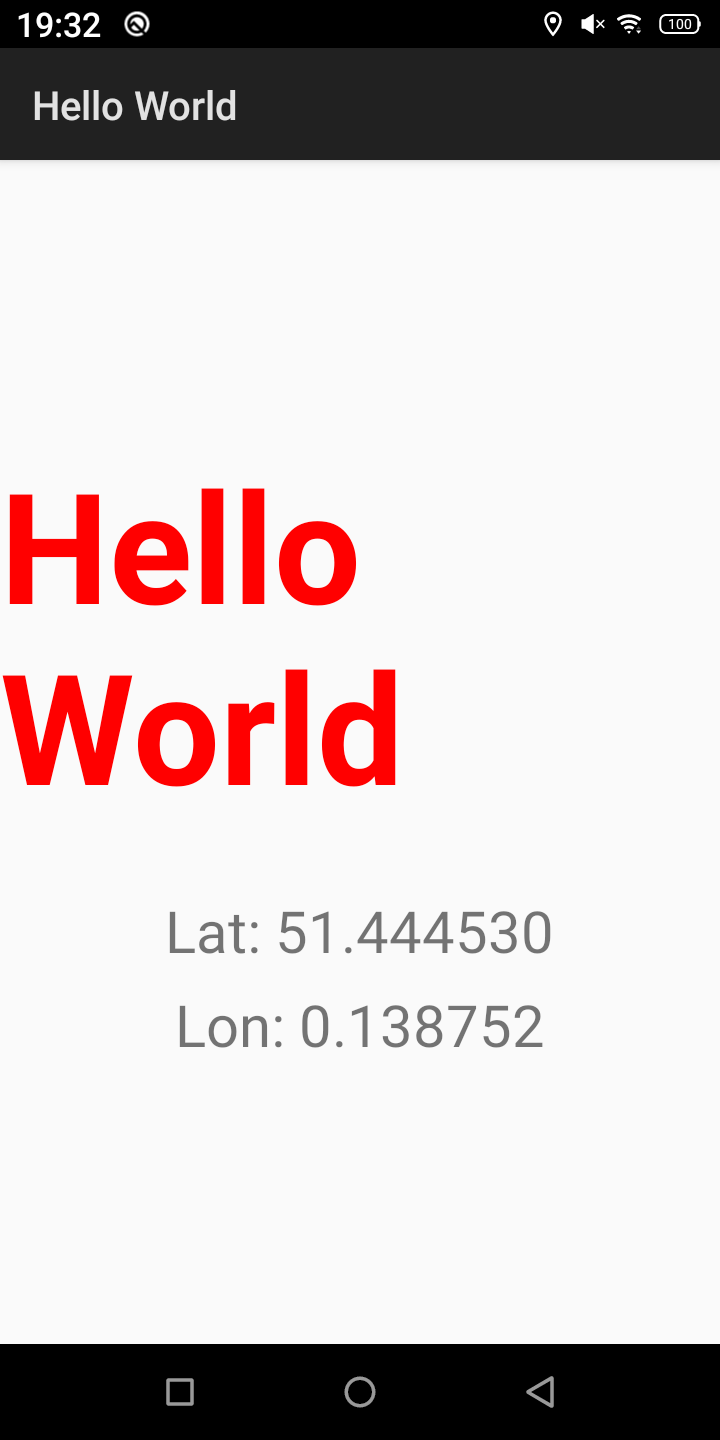
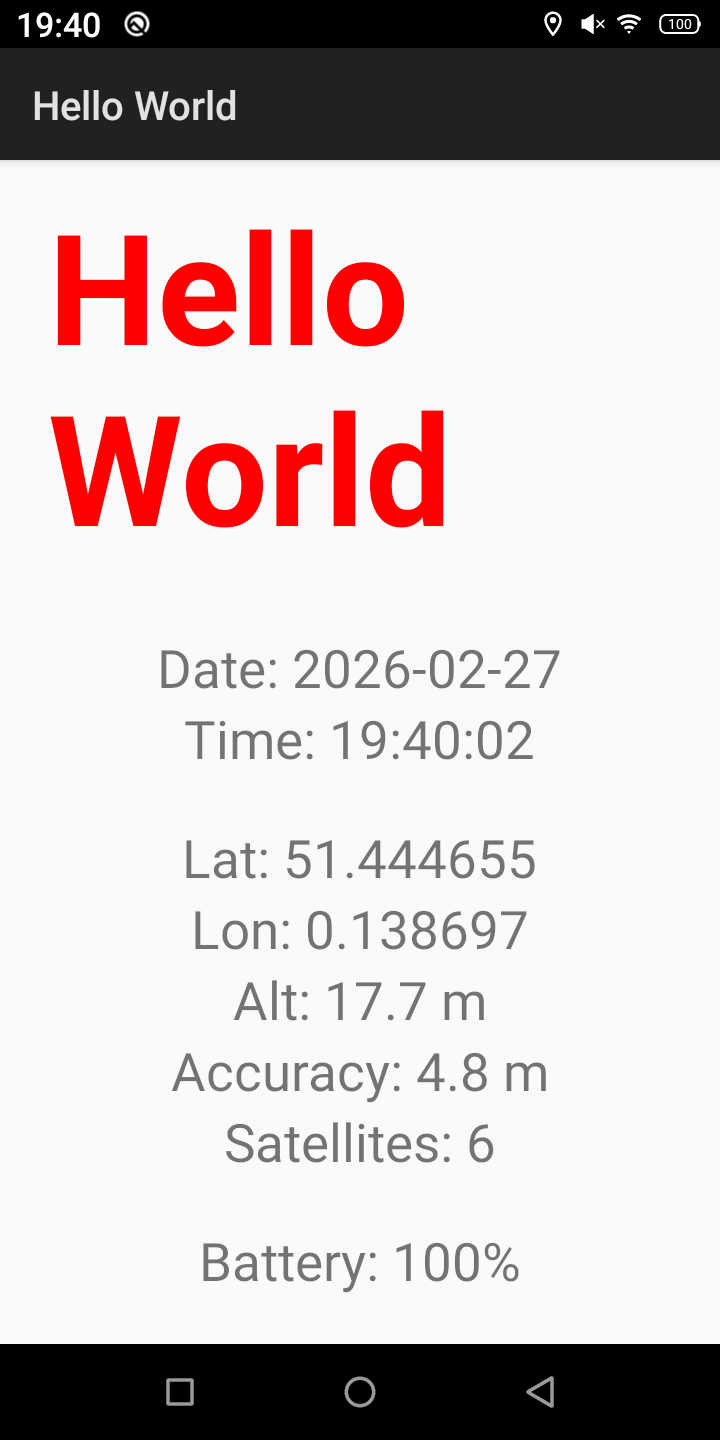
Add altitude, accuracy, satellites, battery, date and time display
Location updates every 60 seconds. Clock ticks every second.
Satellite count uses GnssStatus callback. Battery level via broadcast receiver.

diff --git a/HelloWorld/src/com/example/helloworld/MainActivity.java b/HelloWorld/src/com/example/helloworld/MainActivity.java
@@ -2,28 +2,85 @@ package com.example.helloworld;
 
 import android.Manifest;
 import android.app.Activity;
+import android.content.BroadcastReceiver;
+import android.content.Context;
+import android.content.Intent;
+import android.content.IntentFilter;
 import android.content.pm.PackageManager;
+import android.location.GnssStatus;
 import android.location.Location;
 import android.location.LocationListener;
 import android.location.LocationManager;
+import android.os.BatteryManager;
+import android.os.Build;
 import android.os.Bundle;
+import android.os.Handler;
 import android.widget.TextView;
+
+import java.text.SimpleDateFormat;
+import java.util.Date;
+import java.util.Locale;
 
 public class MainActivity extends Activity implements LocationListener {
 
     private static final int LOCATION_PERMISSION_REQUEST = 1;
-    private TextView tvLat, tvLon;
+
+    private TextView tvLat, tvLon, tvAlt, tvAccuracy, tvSatellites, tvBattery, tvDate, tvTime;
     private LocationManager locationManager;
+    private GnssStatus.Callback gnssCallback;
+    private int satelliteCount = 0;
+
+    private final Handler clockHandler = new Handler();
+    private final SimpleDateFormat dateFmt = new SimpleDateFormat("yyyy-MM-dd", Locale.getDefault());
+    private final SimpleDateFormat timeFmt = new SimpleDateFormat("HH:mm:ss", Locale.getDefault());
+
+    private final Runnable clockTick = new Runnable() {
+        @Override public void run() {
+            Date now = new Date();
+            tvDate.setText("Date: " + dateFmt.format(now));
+            tvTime.setText("Time: " + timeFmt.format(now));
+            clockHandler.postDelayed(this, 1000);
+        }
+    };
+
+    private final BroadcastReceiver batteryReceiver = new BroadcastReceiver() {
+        @Override public void onReceive(Context context, Intent intent) {
+            int level = intent.getIntExtra(BatteryManager.EXTRA_LEVEL, -1);
+            int scale = intent.getIntExtra(BatteryManager.EXTRA_SCALE, -1);
+            int pct = (scale > 0) ? (level * 100 / scale) : -1;
+            tvBattery.setText("Battery: " + pct + "%");
+        }
+    };
 
     @Override
     protected void onCreate(Bundle savedInstanceState) {
         super.onCreate(savedInstanceState);
         setContentView(R.layout.activity_main);
 
-        tvLat = (TextView) findViewById(R.id.tv_lat);
-        tvLon = (TextView) findViewById(R.id.tv_lon);
+        tvLat        = (TextView) findViewById(R.id.tv_lat);
+        tvLon        = (TextView) findViewById(R.id.tv_lon);
+        tvAlt        = (TextView) findViewById(R.id.tv_alt);
+        tvAccuracy   = (TextView) findViewById(R.id.tv_accuracy);
+        tvSatellites = (TextView) findViewById(R.id.tv_satellites);
+        tvBattery    = (TextView) findViewById(R.id.tv_battery);
+        tvDate       = (TextView) findViewById(R.id.tv_date);
+        tvTime       = (TextView) findViewById(R.id.tv_time);
 
         locationManager = (LocationManager) getSystemService(LOCATION_SERVICE);
+
+        registerReceiver(batteryReceiver, new IntentFilter(Intent.ACTION_BATTERY_CHANGED));
+
+        if (Build.VERSION.SDK_INT >= Build.VERSION_CODES.N) {
+            gnssCallback = new GnssStatus.Callback() {
+                @Override public void onSatelliteStatusChanged(GnssStatus status) {
+                    satelliteCount = 0;
+                    for (int i = 0; i < status.getSatelliteCount(); i++) {
+                        if (status.usedInFix(i)) satelliteCount++;
+                    }
+                    tvSatellites.setText("Satellites: " + satelliteCount);
+                }
+            };
+        }
 
         if (checkSelfPermission(Manifest.permission.ACCESS_FINE_LOCATION) != PackageManager.PERMISSION_GRANTED) {
             requestPermissions(new String[]{Manifest.permission.ACCESS_FINE_LOCATION}, LOCATION_PERMISSION_REQUEST);
@@ -36,7 +93,11 @@ public class MainActivity extends Activity implements LocationListener {
         if (checkSelfPermission(Manifest.permission.ACCESS_FINE_LOCATION) != PackageManager.PERMISSION_GRANTED) {
             return;
         }
-        locationManager.requestLocationUpdates(LocationManager.GPS_PROVIDER, 2000, 0, this);
+        locationManager.requestLocationUpdates(LocationManager.GPS_PROVIDER, 60000, 0, this);
+
+        if (Build.VERSION.SDK_INT >= Build.VERSION_CODES.N && gnssCallback != null) {
+            locationManager.registerGnssStatusCallback(gnssCallback);
+        }
 
         Location last = locationManager.getLastKnownLocation(LocationManager.GPS_PROVIDER);
         if (last == null) {
@@ -50,6 +111,8 @@ public class MainActivity extends Activity implements LocationListener {
     private void updateDisplay(Location loc) {
         tvLat.setText(String.format("Lat: %.6f", loc.getLatitude()));
         tvLon.setText(String.format("Lon: %.6f", loc.getLongitude()));
+        tvAlt.setText(String.format("Alt: %.1f m", loc.getAltitude()));
+        tvAccuracy.setText(String.format("Accuracy: %.1f m", loc.getAccuracy()));
     }
 
     @Override
@@ -63,23 +126,33 @@ public class MainActivity extends Activity implements LocationListener {
                 grantResults.length > 0 && grantResults[0] == PackageManager.PERMISSION_GRANTED) {
             startLocationUpdates();
         } else {
-            tvLat.setText("Lat: permission denied");
-            tvLon.setText("Lon: permission denied");
+            tvLat.setText("Location permission denied");
+        }
+    }
+
+    @Override
+    protected void onResume() {
+        super.onResume();
+        clockHandler.post(clockTick);
+        if (checkSelfPermission(Manifest.permission.ACCESS_FINE_LOCATION) == PackageManager.PERMISSION_GRANTED) {
+            startLocationUpdates();
         }
     }
 
     @Override
     protected void onPause() {
         super.onPause();
+        clockHandler.removeCallbacks(clockTick);
         locationManager.removeUpdates(this);
+        if (Build.VERSION.SDK_INT >= Build.VERSION_CODES.N && gnssCallback != null) {
+            locationManager.unregisterGnssStatusCallback(gnssCallback);
+        }
     }
 
     @Override
-    protected void onResume() {
-        super.onResume();
-        if (checkSelfPermission(Manifest.permission.ACCESS_FINE_LOCATION) == PackageManager.PERMISSION_GRANTED) {
-            startLocationUpdates();
-        }
+    protected void onDestroy() {
+        super.onDestroy();
+        unregisterReceiver(batteryReceiver);
     }
 
     @Override public void onStatusChanged(String provider, int status, Bundle extras) {}
